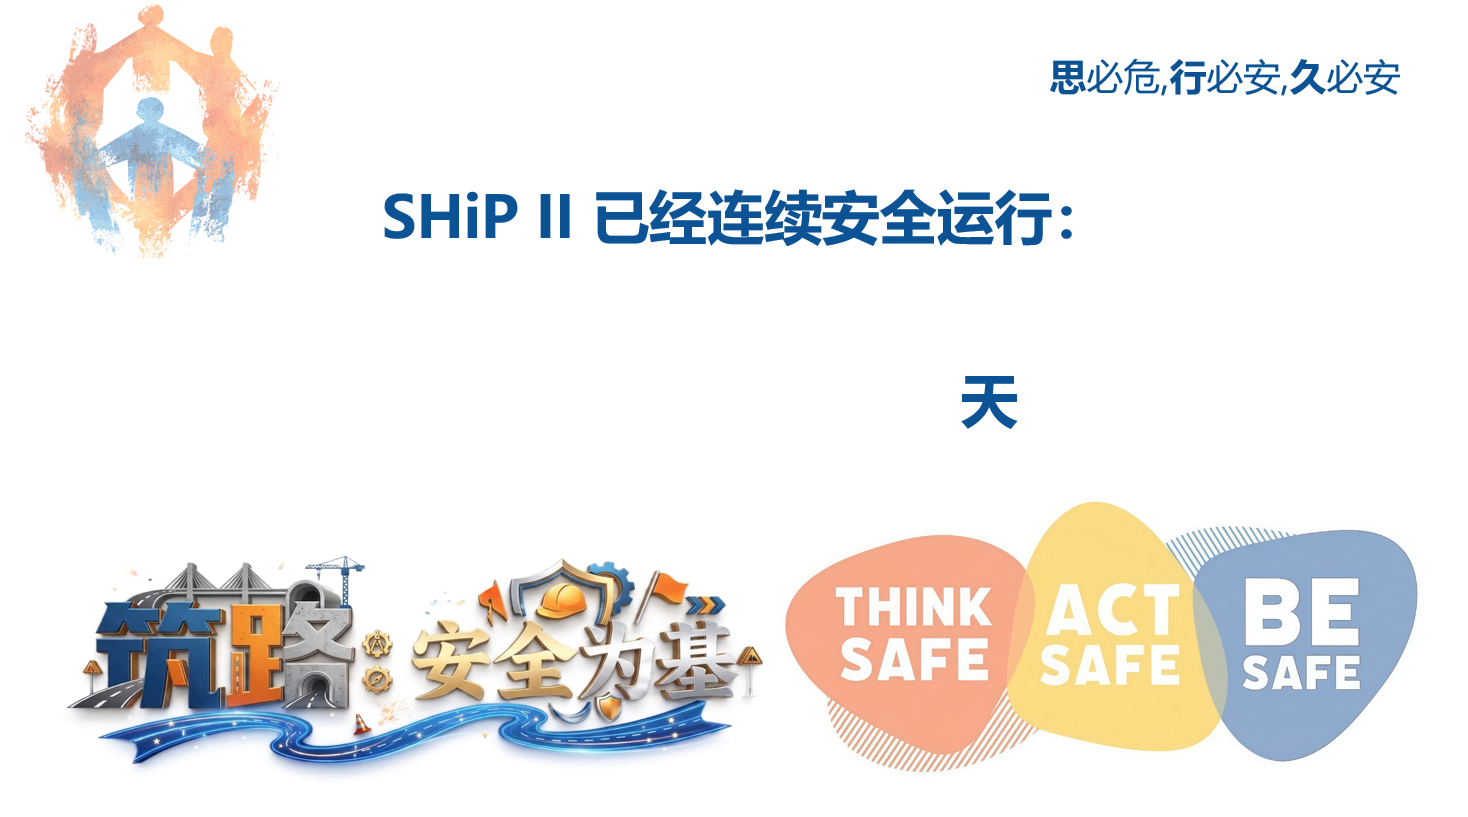
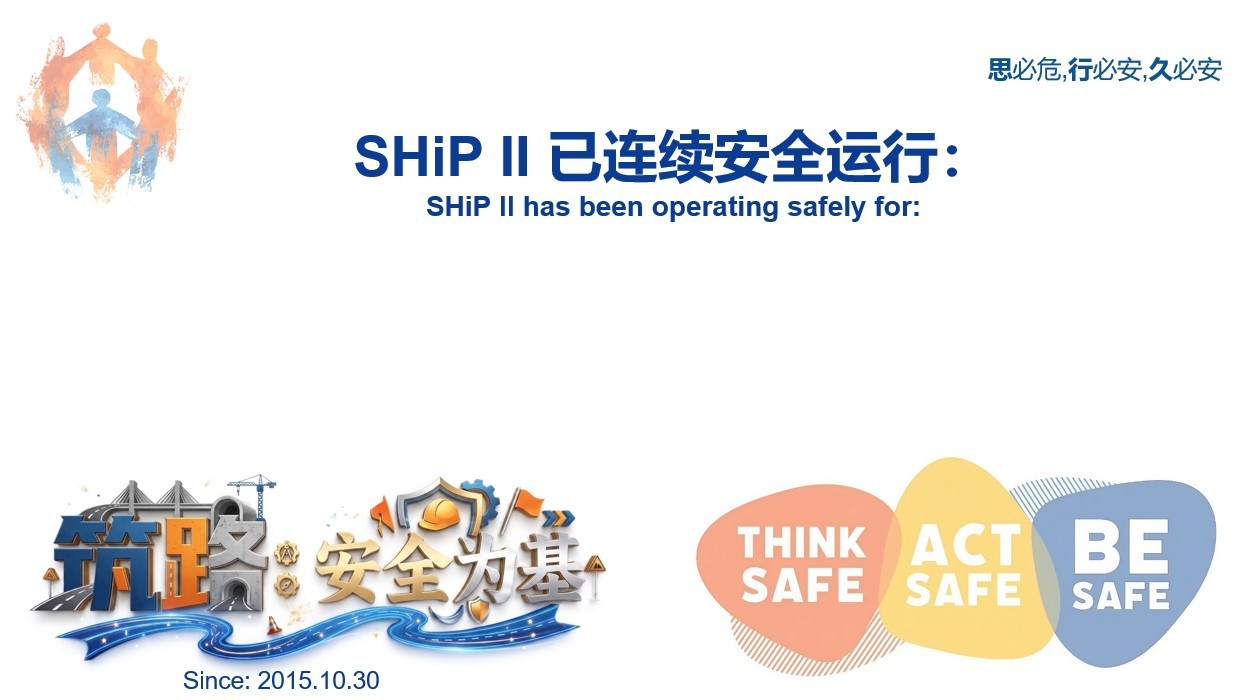
Add files via upload

diff --git a/index.html b/index.html
@@ -4,7 +4,7 @@
     <meta charset="UTF-8">
     <title>车间安全看板</title>
     <style>
-        /* 清除默认边距，设置背景色 */
+        /* 基础页面设置 */
         body, html {
             margin: 0;
             padding: 0;
@@ -15,21 +15,21 @@
             justify-content: center;
             align-items: center;
             overflow: hidden;
-            font-family: "Microsoft YaHei", "PingFang SC", sans-serif;
+            font-family: "Microsoft YaHei", "PingFang SC", Arial, sans-serif;
         }
 
-        /* 核心画板：固定 16:9 比例，自动适配各种电视屏幕且不变形 */
+        /* 16:9 比例画板，使用您指定的背景图片名称 */
         .board {
             position: relative;
-            background-image: url('image_ac6121.jpg');
+            background-image: url('image_ac6121.jpg'); /* 已经改回原来的名字 */
             background-size: 100% 100%;
             background-repeat: no-repeat;
             background-position: center;
             width: 100vw;
-            height: 56.25vw; /* 保持16:9比例 */
+            height: 56.25vw; 
         }
 
-        /* 当屏幕较宽时（如超宽屏），以高度为基准限制宽度 */
+        /* 超宽屏适配限制 */
         @media (min-aspect-ratio: 16/9) {
             .board {
                 width: 177.78vh;
@@ -37,71 +37,70 @@
             }
         }
 
-        /* 遮罩层：覆盖原图的“4011天”，同时作为新数据的容器 */
-        .cover-patch {
+        /* 数据容器：锁定在顶部文字和底部插图之间的空白区域 */
+        .data-container {
             position: absolute;
-            top: 35%;     /* 垂直位置：精确对应原图数字所在高度 */
-            left: 10%;    /* 留出左右边距 */
-            width: 80%;   /* 足够宽以覆盖原有文字 */
-            height: 20%;  /* 高度覆盖数字区域 */
-            background-color: #ffffff; /* 纯白背景与原图融合 */
+            top: 33%;    /* 起始位置在顶部两行标题下方 */
+            height: 32%; /* 容器高度刚好填满中间空白处，利用 flex 自动垂直居中 */
+            left: 0;
+            width: 100%;
             display: flex;
             justify-content: center;
-            align-items: baseline;
+            align-items: center;
         }
 
-        /* 动态数字样式：精准模拟原图字体 */
+        /* 动态数字：绿色、大字号 */
         .dynamic-number {
-            font-size: 8vw; /* 字体大小跟随屏幕宽度自适应 */
+            font-size: 12vw; 
             font-weight: bold;
-            color: #666666; /* 匹配原图的深灰色 */
+            color: #07c160; /* 绿色 */
             line-height: 1;
         }
 
-        /* 单位“天”样式 */
+        /* 动态单位：包含天字、绿色、双语展示 */
         .dynamic-unit {
-            font-size: 3vw;
+            font-size: 3.5vw;
             font-weight: bold;
-            color: #666666;
-            margin-left: 20px;
+            color: #07c160; /* 绿色 */
+            margin-left: 25px;
+            margin-top: 4vw; /* 微调单位的垂直对齐，使其重心稳定 */
         }
 
-        /* 限制超宽屏下的字体上限 */
+        /* 针对超宽屏的字号上限限制 */
         @media (min-aspect-ratio: 16/9) {
-            .dynamic-number { font-size: 14vh; }
-            .dynamic-unit { font-size: 5vh; }
+            .dynamic-number { font-size: 21.3vh; }
+            .dynamic-unit { font-size: 6.2vh; margin-top: 7vh; }
         }
     </style>
 </head>
 <body>
 
-    <!-- 16:9 容器画板 -->
     <div class="board">
-        <!-- 覆盖区域与动态数据 -->
-        <div class="cover-patch">
+        <!-- 数据展示区，在中间空白处居中 -->
+        <div class="data-container">
             <div class="dynamic-number" id="safe-days">计算中...</div>
-            <div class="dynamic-unit">天</div>
+            <div class="dynamic-unit">天 / Days</div>
         </div>
     </div>
 
     <script>
         function calculateSafeDays() {
-            // 起始日期：2015年10月30日（JavaScript中月份从0开始，9代表10月）
+            // 起始日期：2015年10月30日
             const startDate = new Date(2015, 9, 30);
             const currentDate = new Date();
             
-            // 计算时间差并向下取整为天数
+            // 计算时间差并转换为天数
             const timeDiff = currentDate.getTime() - startDate.getTime();
             const daysDiff = Math.floor(timeDiff / (1000 * 60 * 60 * 24));
             
-            // 将计算结果更新到页面上
+            // 更新页面数字
             document.getElementById('safe-days').innerText = daysDiff;
         }
 
-        // 页面打开时立即执行一次计算
+        // 初始化加载
         calculateSafeDays();
 
-        // 设定每 1 小时自动重新计算一次，确保跨越零点时天数自动增加
+        // 每 1 小时刷新一次
         setInterval(calculateSafeDays, 1000 * 60 * 60);
     </script>
 </body>
